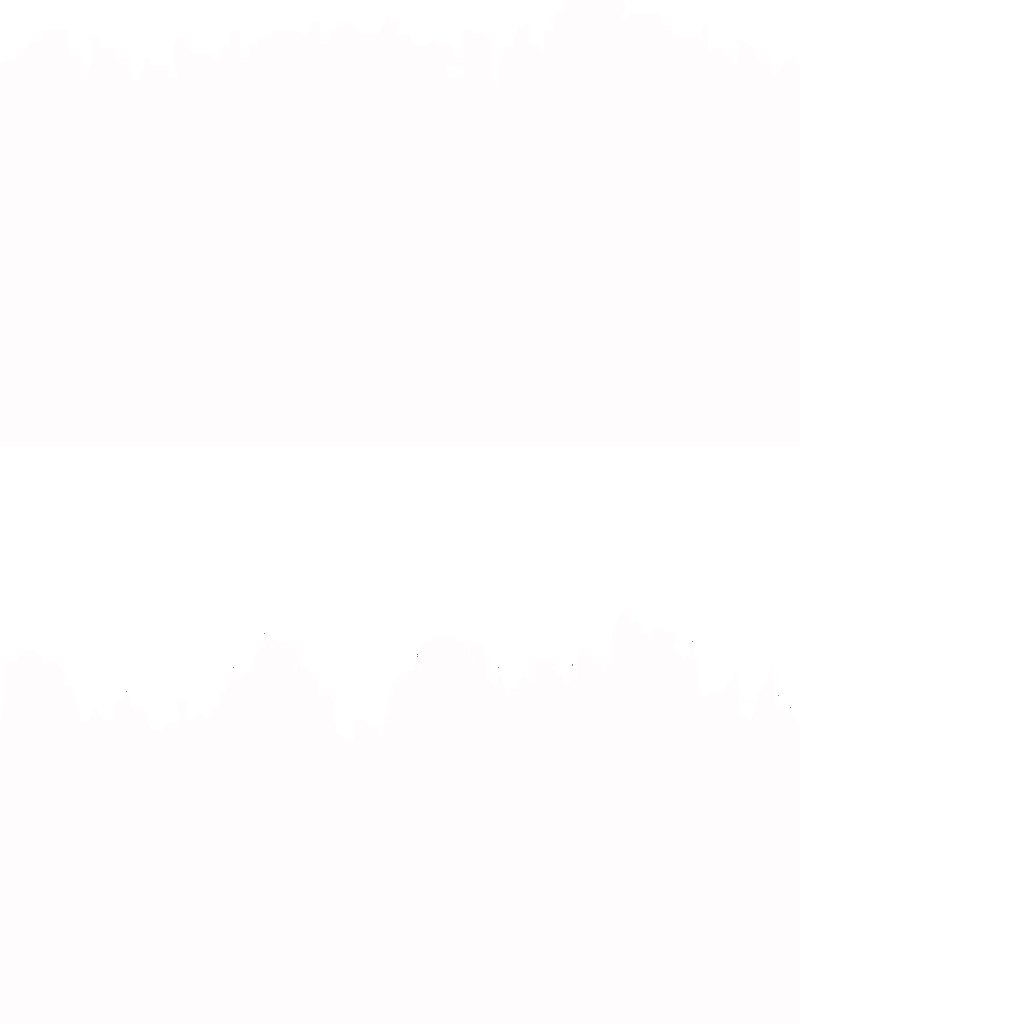
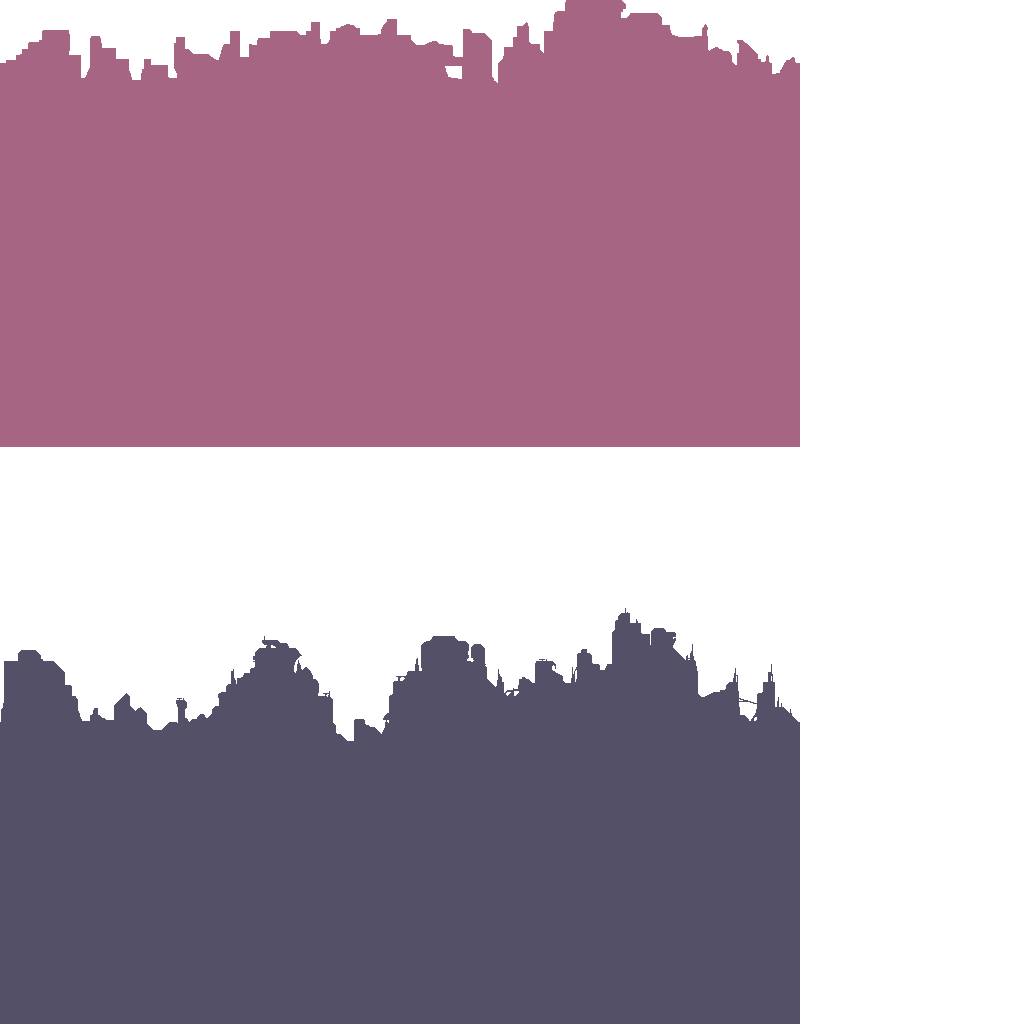
Arreglado

diff --git a/BrainsEden/Assets/Scripts/BackgroundController.cs b/BrainsEden/Assets/Scripts/BackgroundController.cs
@@ -3,7 +3,7 @@ using System.Collections;
 
 public class BackgroundController : MonoBehaviour {
 	GameObject[] background;
-	GameObject[] buildings;
+	//GameObject[] buildings;
 	public float background_speed = 800;
 
 	// Use this for initialization
@@ -17,7 +17,7 @@ public class BackgroundController : MonoBehaviour {
 		background [5] = GameObject.Find ("background_5");
 		background [6] = GameObject.Find ("background_6");
 		background [7] = GameObject.Find ("background_7");
-		buildings = new GameObject[2];
+		//buildings = new GameObject[2];
 
 		background [1].transform.position = new Vector3 (background [1].transform.position.x, background [0].transform.position.y + 500, background [1].transform.position.z);
 		background [2].transform.position = new Vector3 (background [2].transform.position.x, background [0].transform.position.y + 1000, background [2].transform.position.z);
@@ -27,10 +27,10 @@ public class BackgroundController : MonoBehaviour {
 		background [6].transform.position = new Vector3 (background [6].transform.position.x, background [0].transform.position.y + 3000, background [6].transform.position.z);
 		background [7].transform.position = new Vector3 (background [7].transform.position.x, background [0].transform.position.y + 3500, background [7].transform.position.z);
 
-		buildings[0].colo
+		//buildings[0].colo
 
-		buildings [0].transform.position = new Vector3 (buildings [0].transform.position.x, buildings [0].transform.position.y, buildings [0].transform.position.z);
-		buildings [1].transform.position = new Vector3 (buildings [1].transform.position.x, buildings [1].transform.position.y, buildings [1].transform.position.z);
+		//buildings [0].transform.position = new Vector3 (buildings [0].transform.position.x, buildings [0].transform.position.y, buildings [0].transform.position.z);
+		//buildings [1].transform.position = new Vector3 (buildings [1].transform.position.x, buildings [1].transform.position.y, buildings [1].transform.position.z);
 	}
 	
 	// Update is called once per frame

diff --git a/BrainsEden/Assets/Scripts/BuildingsColor.cs b/BrainsEden/Assets/Scripts/BuildingsColor.cs
@@ -3,7 +3,7 @@ using System.Collections;
 
 public class BuildingsColor : MonoBehaviour {
 	public Texture2D building1;
-	public Texture2D 
+	public Texture2D building2;
 
 	// Use this for initialization
 	void Start () {
